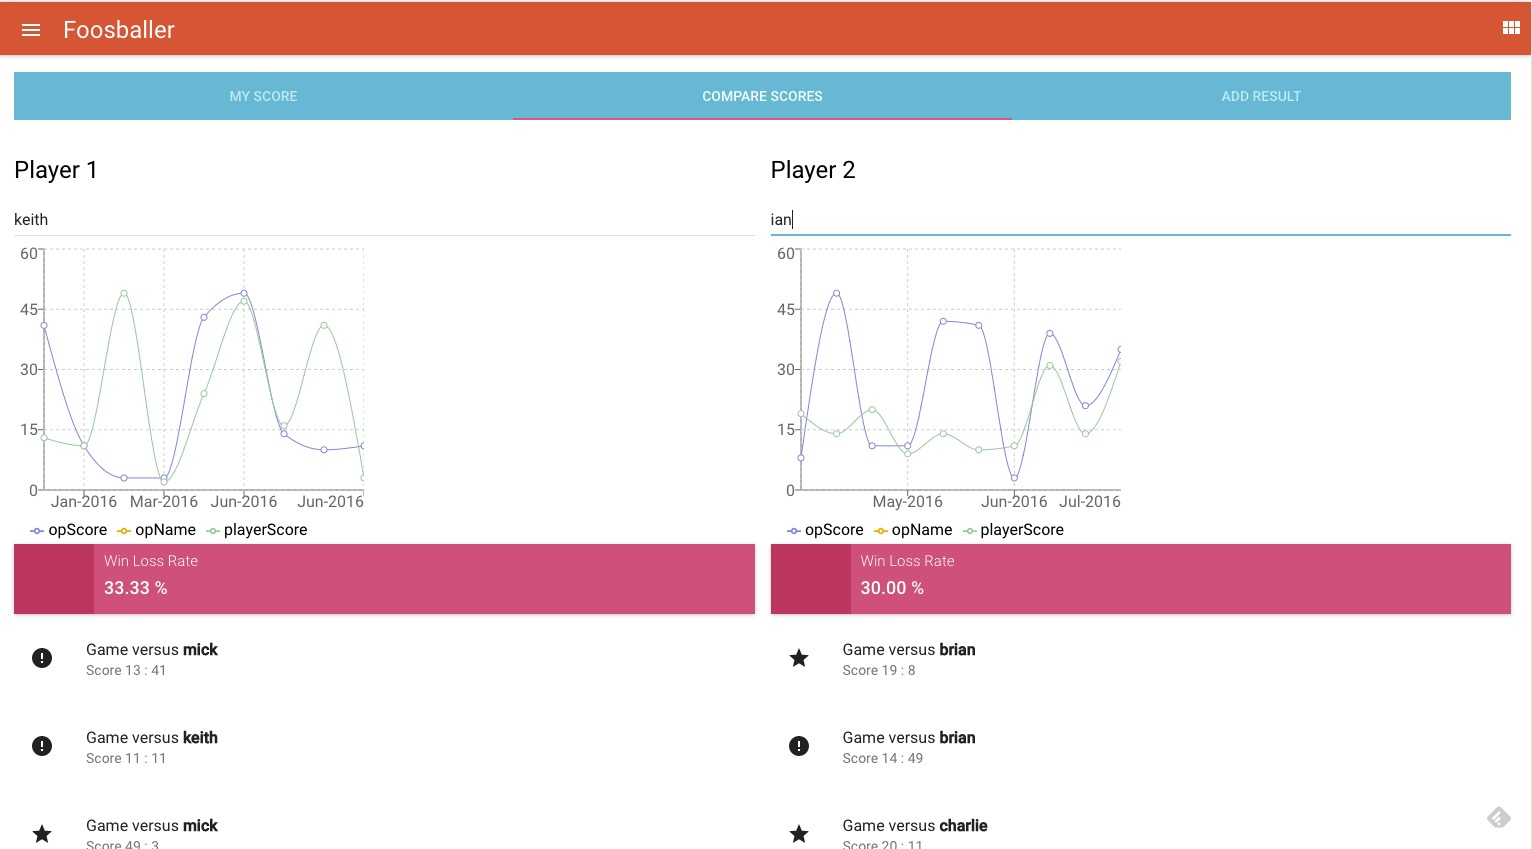
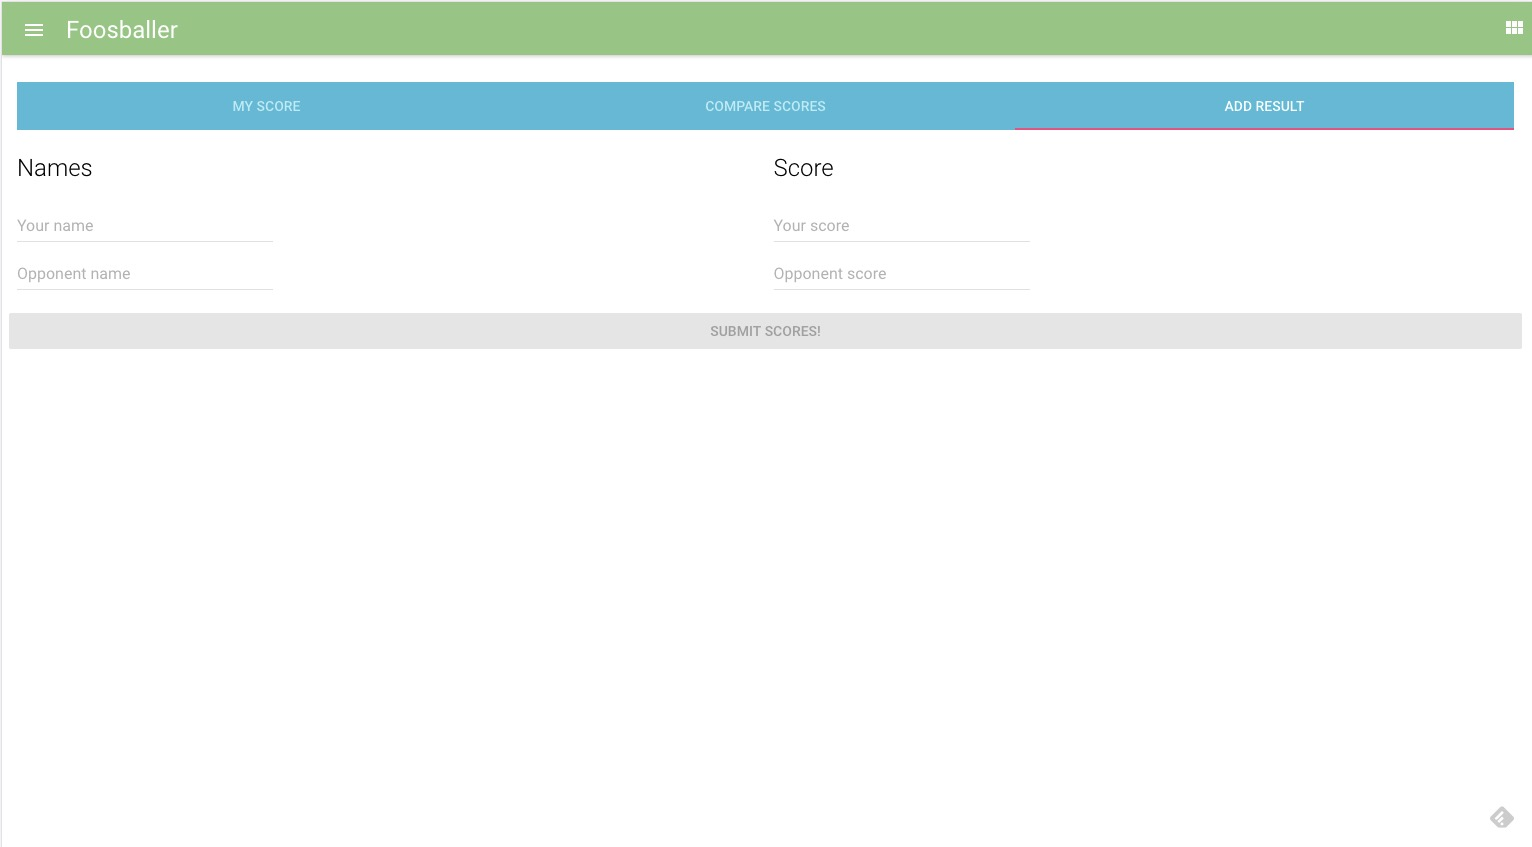
colour changes

diff --git a/src/components/Header.js b/src/components/Header.js
@@ -1,6 +1,6 @@
 import React from 'react';
 import AppBar from 'material-ui/AppBar';
-import {white, red500} from 'material-ui/styles/colors';
+import {white, green300} from 'material-ui/styles/colors';
 import ViewModule from 'material-ui/svg-icons/action/view-module';
 
 class Header extends React.Component {
@@ -12,7 +12,7 @@ class Header extends React.Component {
         top: -4,
         overflow: 'hidden',
         maxHeight: 57,
-        backgroundColor:red500,
+        backgroundColor:green300,
         color:white,
       },
       menuButton: {
